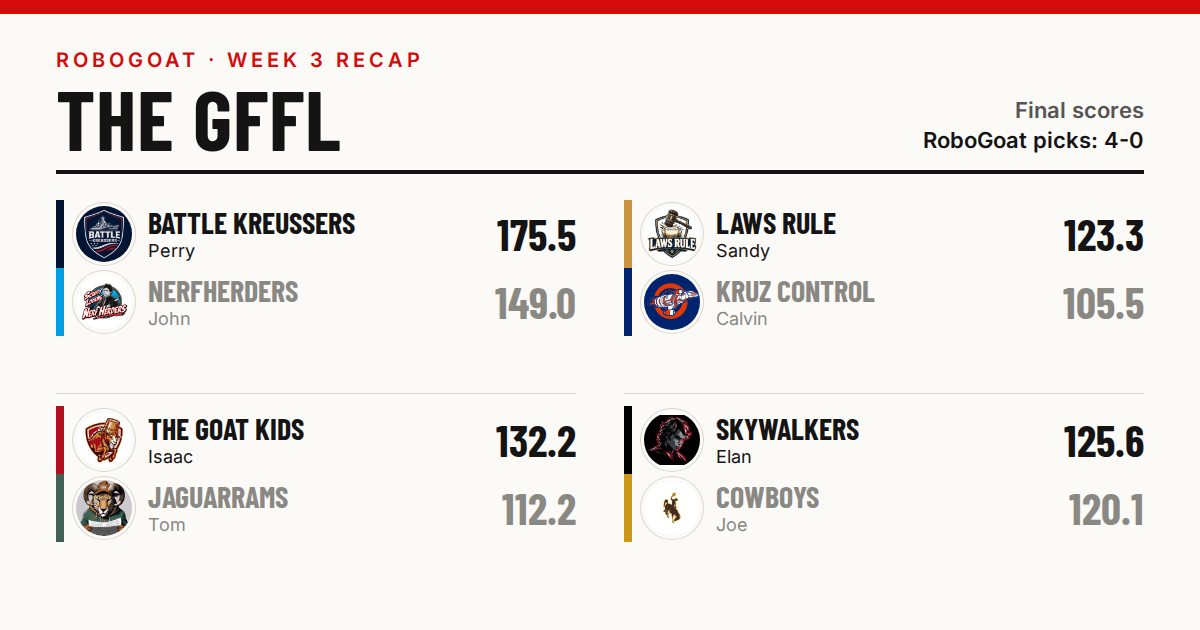
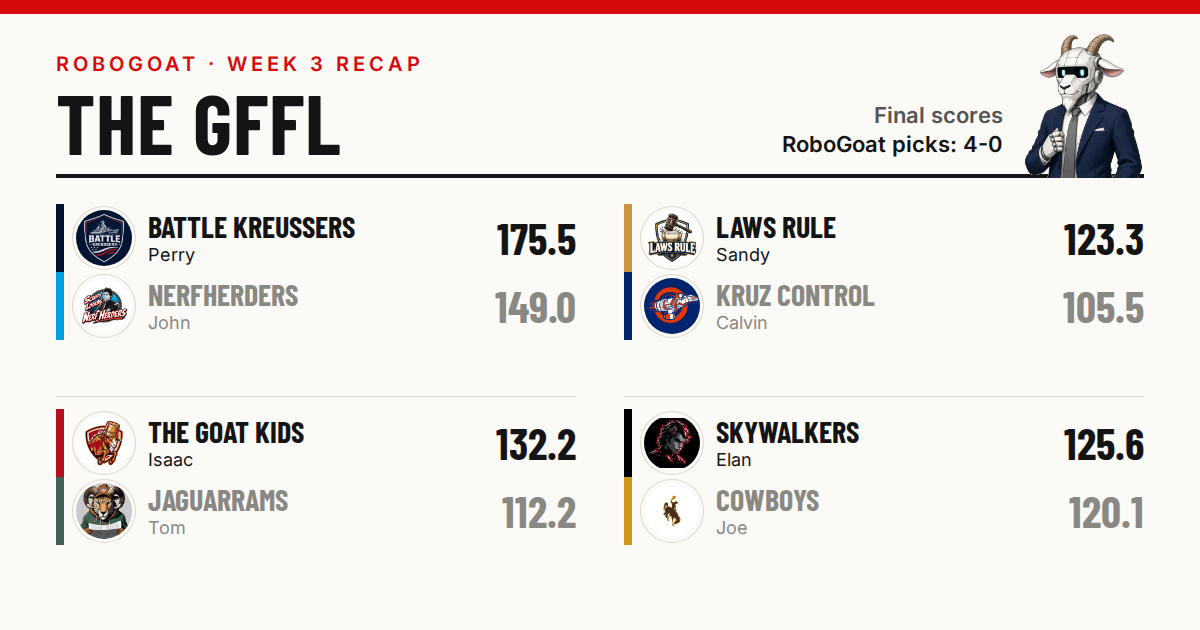
GFFL RoboGoat page: RoboGoat's portrait up top; owners "versus", not "at"
- robogoat/robogoat.png is the RoboGoat portrait from the sent Week 2 recap
  email. Its opaque white background was flood-filled to transparent from the
  edges. It sits in the masthead at the right and is on share.png too. Every
  future newsletter uses the same file; the rule is in docs/gffl.md.
- Owner matchups read "Joe versus Calvin", "Tom versus John", "Sandy versus
  Perry"; "Visits Perry" became "Plays Perry". "At" stays for team names.
- tools/_verify-robogoat.cjs 46/46. New checks: the portrait is in the
  masthead, loaded and on screen at 360/390/1280, and no "<owner> at <owner>".
  Bite: the previous page fails exactly those four (42/46).

Claude-Session: https://claude.ai/code/session_01QmYWhp1Wr98tw96yVCXBp8

diff --git a/robogoat/2026/week-3/index.html b/robogoat/2026/week-3/index.html
@@ -25,7 +25,9 @@
 html{-webkit-text-size-adjust:100%}
 body{margin:0;background:var(--page);color:var(--ink);font:18px/1.6 var(--ser)}
 .wrap{max-width:720px;margin:0 auto;background:var(--paper);min-height:100vh;box-shadow:0 0 0 1px var(--rule)}
-header.mast{padding:22px 20px 18px;border-top:6px solid var(--red);text-align:center;border-bottom:1px solid var(--rule)}
+header.mast{display:flex;align-items:flex-end;justify-content:space-between;gap:12px;padding:18px 20px 0;border-top:6px solid var(--red);border-bottom:3px solid var(--ink);background:linear-gradient(180deg,#fbfaf7 55%,#eef1f6)}
+.mt{padding-bottom:18px;min-width:0}
+img.robogoat{display:block;height:150px;width:auto;flex:none;margin-bottom:-1px}
 .mast .league{font:600 12px/1.2 var(--ui);letter-spacing:.18em;text-transform:uppercase;color:var(--mut)}
 .mast .name{font:700 52px/1 var(--hed);letter-spacing:.02em;margin:6px 0 2px;color:var(--ink)}
 .mast .col{font:600 13px/1.4 var(--ui);letter-spacing:.12em;text-transform:uppercase;color:var(--red)}
@@ -127,16 +129,19 @@ ol.ranks,ul.inj,ul.next{list-style:none;margin:0;padding:0}
 .sig{font:700 22px var(--hed);letter-spacing:.04em;text-transform:uppercase;margin-top:22px}
 footer{border-top:1px solid var(--rule);padding:16px 20px 28px;font:13px/1.5 var(--ui);color:var(--mut);text-align:center}
 footer a{color:var(--navy)}
-@media (max-width:420px){body{font-size:17px}.mast .name{font-size:44px}.hed h1{font-size:34px}h3.gh{font-size:23px}.ts{font-size:26px}.final{font-size:38px}}
+@media (max-width:420px){body{font-size:17px}.mast .name{font-size:44px}img.robogoat{height:128px}.mast .league{font-size:11px;letter-spacing:.1em}.hed h1{font-size:34px}h3.gh{font-size:23px}.ts{font-size:26px}.final{font-size:38px}}
 </style>
 </head>
 <body>
 <div class="wrap">
 <header class="mast">
+<div class="mt">
 <div class="league">Goat Fantasy Football League</div>
 <div class="name">THE GFFL</div>
 <div class="col">RoboGoat · Week 3 Recap</div>
 <div class="date">Tuesday, September 29, 2026</div>
+</div>
+<img class="robogoat" src="../../robogoat.png" alt="RoboGoat" width="228" height="278">
 </header>
 <div class="hed"><h1>Perry Scores 175.5, and Sandy Wins on a Wednesday Kicker</h1></div>
 <main>
@@ -211,7 +216,7 @@ footer a{color:var(--navy)}
 <p>Three teams left more than 40 points on the bench this week: Elan (44.8), Sandy (42.0) and Isaac (40.2). All three won. The two tightest lineups belonged to Perry (6.86) and Joe (6.90), and they split.</p>
 </section>
 <section class="sec" id="robogoat-s-power-rankings"><h2 class="label">RoboGoat's Power Rankings</h2>
-<ol class="ranks"><li><span class="rk">1</span><img class="lg sm" src="../../logos/team-9.jpg" alt="" width="40" height="40"><div><b>Scruffy Looking Nerfherders</b> <small>John, <span class="nw">2-1</span></small><p>Lost, and still the best roster. Gibbs and Smith-Njigba scored 71.3 between them. Kyler Murray is the quarterback until Caleb Williams’s hamstring heals, three to four weeks. Breece Hall left with a thigh injury.</p></div></li><li><span class="rk">2</span><img class="lg sm" src="../../logos/team-1.jpg" alt="" width="40" height="40"><div><b>Battle Kreussers</b> <small>Perry, <span class="nw">2-1</span></small><p>175.5 with a quarterback signed Wednesday. The quarterback room now has two good answers, which is two more than the Patriots think they have.</p></div></li><li><span class="rk">3</span><img class="lg sm" src="../../logos/team-5.jpg" alt="" width="40" height="40"><div><b>Laws Rule</b> <small>Sandy, <span class="nw">2-1</span></small><p>Allen and Mahomes on one roster, and a kicker off the wire who outscored both of them. Visits Perry next.</p></div></li><li><span class="rk">4</span><img class="lg sm" src="../../logos/team-11.jpg" alt="" width="40" height="40"><div><b>Kruz Control</b> <small>Calvin, <span class="nw">2-1</span></small><p>Lamar, Chase, Walker and Jeanty can win any week. The three Carolina starters scored 18.5 combined in Cleveland, and Coker is hurt.</p></div></li><li><span class="rk">5</span><img class="lg sm" src="../../logos/team-12.jpg" alt="" width="40" height="40"><div><b>The GOAT Kids</b> <small>Isaac, <span class="nw">1-2</span></small><p>Fourth in points. Won by 20 with 40.2 on the bench.</p></div></li><li><span class="rk">6</span><img class="lg sm" src="../../logos/team-3.jpg" alt="" width="40" height="40"><div><b>Wyoming Cowboys</b> <small>Joe, <span class="nw">1-2</span></small><p>Second in points. Left 6.90 on the bench and lost by 5.5. The only tighter lineup this week was Perry’s.</p></div></li><li><span class="rk">7</span><img class="lg sm" src="../../logos/team-2.jpg" alt="" width="40" height="40"><div><b>Elanikan Skywalkers</b> <small>Elan, <span class="nw">1-2</span></small><p>The deepest bench in the league, which has been the problem. Achane is out for the season. Nacua should be back.</p></div></li><li><span class="rk">8</span><img class="lg sm" src="../../logos/team-4.jpg" alt="" width="40" height="40"><div><b>Chula Vista Jaguarrams</b> <small>Tom, <span class="nw">1-2</span></small><p>Kittle and Henry are real. Jefferson, Evans and Etienne all got hurt on Sunday.</p></div></li></ol>
+<ol class="ranks"><li><span class="rk">1</span><img class="lg sm" src="../../logos/team-9.jpg" alt="" width="40" height="40"><div><b>Scruffy Looking Nerfherders</b> <small>John, <span class="nw">2-1</span></small><p>Lost, and still the best roster. Gibbs and Smith-Njigba scored 71.3 between them. Kyler Murray is the quarterback until Caleb Williams’s hamstring heals, three to four weeks. Breece Hall left with a thigh injury.</p></div></li><li><span class="rk">2</span><img class="lg sm" src="../../logos/team-1.jpg" alt="" width="40" height="40"><div><b>Battle Kreussers</b> <small>Perry, <span class="nw">2-1</span></small><p>175.5 with a quarterback signed Wednesday. The quarterback room now has two good answers, which is two more than the Patriots think they have.</p></div></li><li><span class="rk">3</span><img class="lg sm" src="../../logos/team-5.jpg" alt="" width="40" height="40"><div><b>Laws Rule</b> <small>Sandy, <span class="nw">2-1</span></small><p>Allen and Mahomes on one roster, and a kicker off the wire who outscored both of them. Plays Perry next.</p></div></li><li><span class="rk">4</span><img class="lg sm" src="../../logos/team-11.jpg" alt="" width="40" height="40"><div><b>Kruz Control</b> <small>Calvin, <span class="nw">2-1</span></small><p>Lamar, Chase, Walker and Jeanty can win any week. The three Carolina starters scored 18.5 combined in Cleveland, and Coker is hurt.</p></div></li><li><span class="rk">5</span><img class="lg sm" src="../../logos/team-12.jpg" alt="" width="40" height="40"><div><b>The GOAT Kids</b> <small>Isaac, <span class="nw">1-2</span></small><p>Fourth in points. Won by 20 with 40.2 on the bench.</p></div></li><li><span class="rk">6</span><img class="lg sm" src="../../logos/team-3.jpg" alt="" width="40" height="40"><div><b>Wyoming Cowboys</b> <small>Joe, <span class="nw">1-2</span></small><p>Second in points. Left 6.90 on the bench and lost by 5.5. The only tighter lineup this week was Perry’s.</p></div></li><li><span class="rk">7</span><img class="lg sm" src="../../logos/team-2.jpg" alt="" width="40" height="40"><div><b>Elanikan Skywalkers</b> <small>Elan, <span class="nw">1-2</span></small><p>The deepest bench in the league, which has been the problem. Achane is out for the season. Nacua should be back.</p></div></li><li><span class="rk">8</span><img class="lg sm" src="../../logos/team-4.jpg" alt="" width="40" height="40"><div><b>Chula Vista Jaguarrams</b> <small>Tom, <span class="nw">1-2</span></small><p>Kittle and Henry are real. Jefferson, Evans and Etienne all got hurt on Sunday.</p></div></li></ol>
 </section>
 <section class="sec" id="injury-desk"><h2 class="label">Injury Desk</h2>
 <ul class="inj"><li><b>De’Von Achane</b> <small>(Elan)</small>: torn ACL, out for the season.</li><li><b>Justin Jefferson</b> <small>(Tom)</small>: ankle sprain; Monday’s MRI showed only a sprain, and he could play in Week 4 against Miami.</li><li><b>Mike Evans</b> <small>(Tom)</small>: rib strain, day-to-day.</li><li><b>Travis Etienne</b> <small>(Tom)</small>: left in the third quarter with a leg injury; Kellen Moore expects him to miss time.</li><li><b>Jalen Coker</b> <small>(Calvin)</small>: quad strain, questionable against Detroit.</li><li><b>Breece Hall</b> <small>(John)</small>: thigh, week-to-week.</li><li><b>Caleb Williams</b> <small>(John)</small>: Grade 2 hamstring, three to four weeks.</li><li><b>Puka Nacua</b> <small>(Elan)</small>: inactive with a groin injury; Sean McVay expects him back against the Eagles, barring a setback.</li><li><b>Nico Collins</b> <small>(Isaac)</small>: hamstring, second straight missed game.</li><li><b>Dallas Goedert</b> <small>(Isaac)</small>: MCL sprain, three to four weeks.</li><li><b>Jalen Hurts</b> <small>(Tom)</small>: evaluated for a concussion Monday night, cleared, returned.</li></ul>
@@ -224,7 +229,7 @@ footer a{color:var(--navy)}
 <div class="award"><b>The Sportsmanship Award</b><p>Tom. Lost by 20 with two receivers hurt, then reassured the winner.</p></div>
 </section>
 <section class="sec" id="week-4"><h2 class="label">Week 4</h2>
-<ul class="next"><li><span class="gl"><img class="lg sm" src="../../logos/team-5.jpg" alt="" width="40" height="40"><img class="lg sm" src="../../logos/team-1.jpg" alt="" width="40" height="40"></span><div><b>Laws Rule at Battle Kreussers</b><p>Sandy against Perry, and both are <span class="nw">2-1</span>.</p></div></li><li><span class="gl"><img class="lg sm" src="../../logos/team-2.jpg" alt="" width="40" height="40"><img class="lg sm" src="../../logos/team-12.jpg" alt="" width="40" height="40"></span><div><b>Elanikan Skywalkers at The GOAT Kids</b><p>Elan and Isaac in a rematch of last year’s championship game, which Elan won 183.9 to 139.5.</p></div></li><li><span class="gl"><img class="lg sm" src="../../logos/team-3.jpg" alt="" width="40" height="40"><img class="lg sm" src="../../logos/team-11.jpg" alt="" width="40" height="40"></span><div><b>Wyoming Cowboys at Kruz Control</b><p>Joe at Calvin.</p></div></li><li><span class="gl"><img class="lg sm" src="../../logos/team-4.jpg" alt="" width="40" height="40"><img class="lg sm" src="../../logos/team-9.jpg" alt="" width="40" height="40"></span><div><b>Chula Vista Jaguarrams at Scruffy Looking Nerfherders</b><p>Tom at John: the fewest points in the league against the most.</p></div></li></ul>
+<ul class="next"><li><span class="gl"><img class="lg sm" src="../../logos/team-5.jpg" alt="" width="40" height="40"><img class="lg sm" src="../../logos/team-1.jpg" alt="" width="40" height="40"></span><div><b>Laws Rule at Battle Kreussers</b><p>Sandy versus Perry, and both are <span class="nw">2-1</span>.</p></div></li><li><span class="gl"><img class="lg sm" src="../../logos/team-2.jpg" alt="" width="40" height="40"><img class="lg sm" src="../../logos/team-12.jpg" alt="" width="40" height="40"></span><div><b>Elanikan Skywalkers at The GOAT Kids</b><p>Elan and Isaac in a rematch of last year’s championship game, which Elan won 183.9 to 139.5.</p></div></li><li><span class="gl"><img class="lg sm" src="../../logos/team-3.jpg" alt="" width="40" height="40"><img class="lg sm" src="../../logos/team-11.jpg" alt="" width="40" height="40"></span><div><b>Wyoming Cowboys at Kruz Control</b><p>Joe versus Calvin.</p></div></li><li><span class="gl"><img class="lg sm" src="../../logos/team-4.jpg" alt="" width="40" height="40"><img class="lg sm" src="../../logos/team-9.jpg" alt="" width="40" height="40"></span><div><b>Chula Vista Jaguarrams at Scruffy Looking Nerfherders</b><p>Tom versus John: the fewest points in the league against the most.</p></div></li></ul>
 <p>Picks record: <span class="nw">7-1</span>. Picks on Saturday.</p>
 <p class="sig">RoboGoat</p>
 </section>

diff --git a/docs/gffl.md b/docs/gffl.md
@@ -9957,6 +9957,14 @@ link preview. `noindex`, because the page names the family.
   Perry = Kreussers, John = Nerfherders, Calvin = Kruz Control, Isaac = GOAT Kids,
   Tom = Jaguarrams, Joe = Cowboys, Elan = Skywalkers.
 - "He" for everyone except Sandy.
+- Owner matchups read "Joe versus Calvin", never "Joe at Calvin". "At" is for team names only
+  ("Wyoming Cowboys at Kruz Control").
+- **RoboGoat's portrait heads every newsletter** (user: "include the robogoat picture from last
+  week's email at the top of the newsletter and all future newsletters"). The file is
+  `robogoat/robogoat.png`, taken from the inline image in the sent Week 2 recap email. The original
+  had an opaque white background, which was flood-filled to transparent from the edges; his white
+  face is untouched. It sits in the masthead at the right and is on `share.png` too. Future pages
+  point at the same file (`../../robogoat.png` from `robogoat/<season>/week-<n>/`).
 - Chat quotes are public league chat (`chat_*` docs). Private email replies, declined trade offers
   and the `act_*` log are off limits.
 
@@ -9966,14 +9974,15 @@ high (a D/ST or kicker stat correction), so quote the weekly doc's totals and no
 `wpgraph_*` `p` is the **away** team's chance. Readings exist only while someone has the app open,
 so the page draws gaps over 3h dashed.
 
-**VERIFY:** `node tools/_verify-robogoat.cjs` **42/42**. It checks 360/390/1280 with external
+**VERIFY:** `node tools/_verify-robogoat.cjs` **46/46**. It checks 360/390/1280 with external
 requests blocked:
 - no horizontal scroll;
 - local logos load;
 - exactly one WP chart visible, with type ≥11px and no label outside the viewBox;
 - scoreboard values, standings order and points (summed here from the weekly totals, hand-entered);
 - bench bars proportional to their values;
-- the decimal whitelist, no unquoted "Mom", all eight owners named, curly quotes;
+- the decimal whitelist, no unquoted "Mom", all eight owners named, curly quotes, no "Joe at Calvin";
+- RoboGoat's portrait in the masthead, loaded and on screen;
 - every score or record inside a no-wrap span.
 
 The first run caught three real bugs: the top three bench bars were clipped to one length by a
